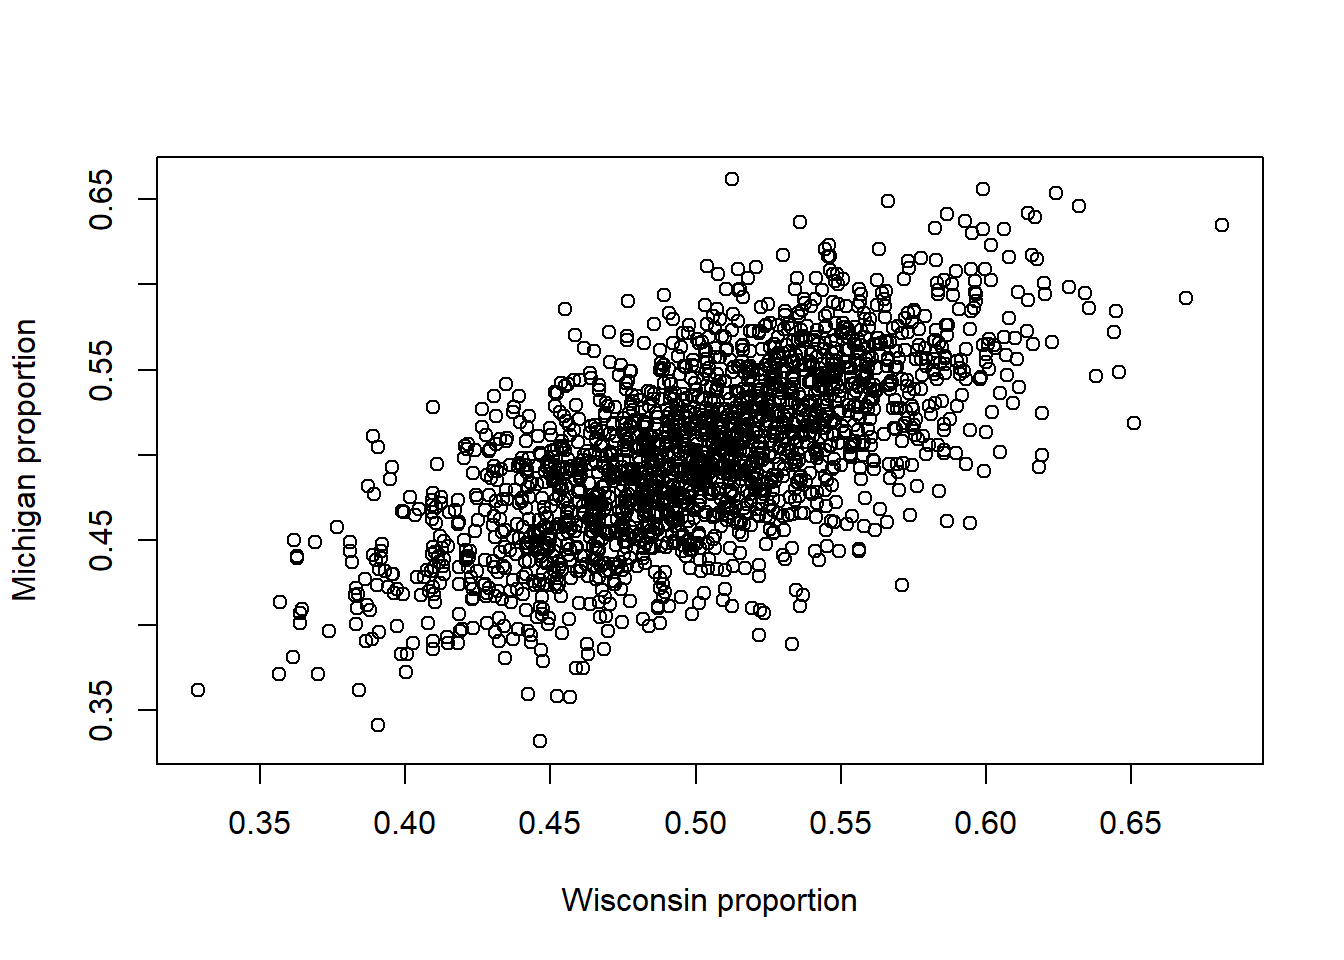
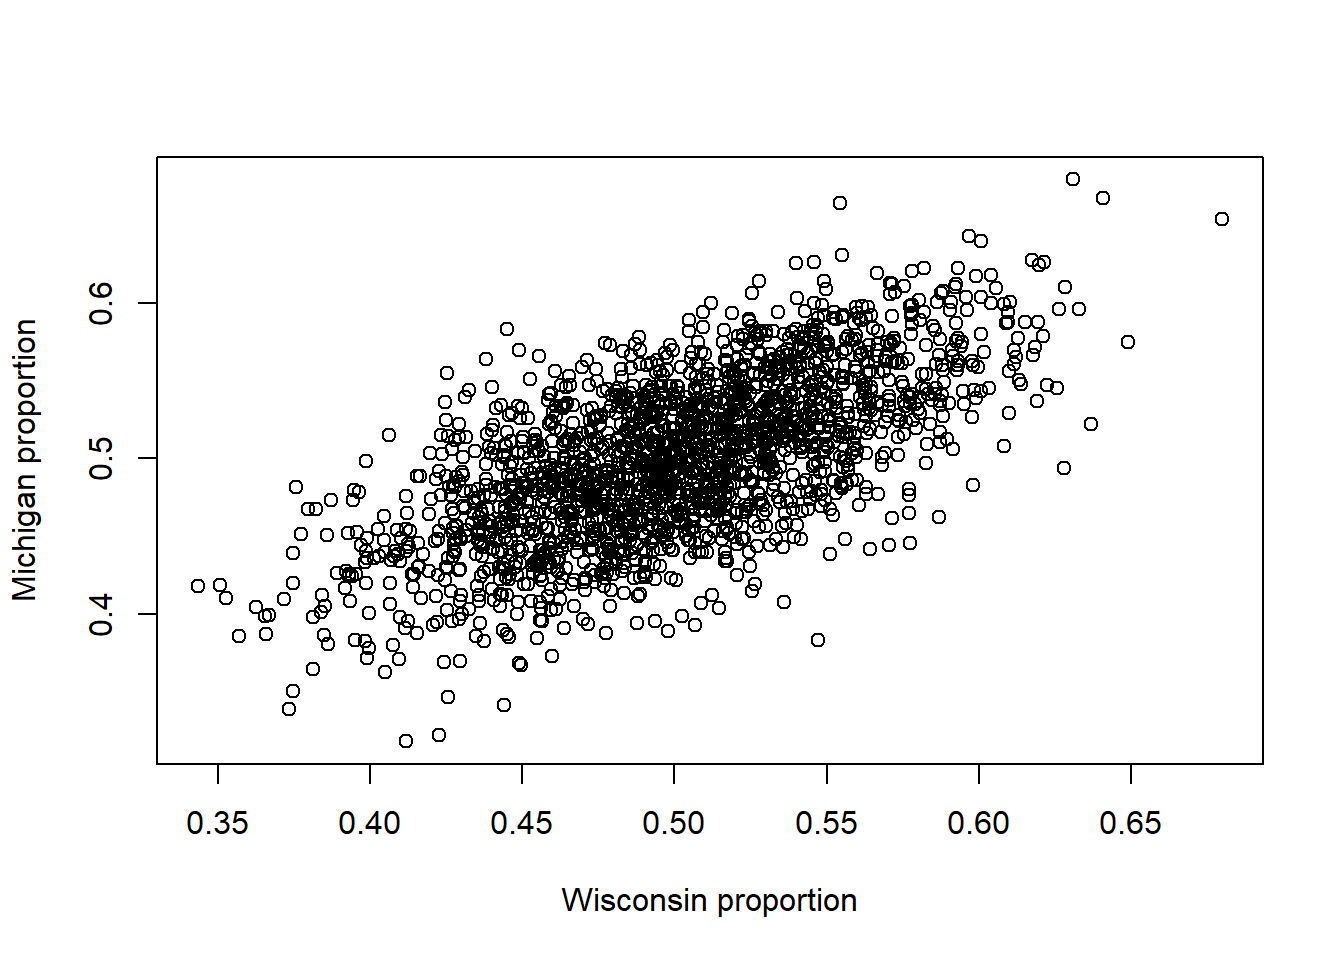
cov fixes

diff --git a/docs/cov.html b/docs/cov.html
@@ -446,14 +446,14 @@ So if $X$ and $Y$ are independent, $\operatorname{Cov}(X,Y) = 0$. -->
 <span id="cb1-3"><a href="#cb1-3" aria-hidden="true" tabindex="-1"></a></span>
 <span id="cb1-4"><a href="#cb1-4" aria-hidden="true" tabindex="-1"></a><span class="fu">cov</span>(x,y)</span></code><button title="Copy to Clipboard" class="code-copy-button"><i class="bi"></i></button></pre></div>
 <div class="cell-output cell-output-stdout">
-<pre><code>[1] -0.002047785</code></pre>
+<pre><code>[1] 0.0003628265</code></pre>
 </div>
 </div>
 <p>The covariance of this sample of 10,000 observations of <span class="math inline">\(X\)</span> and <span class="math inline">\(Y\)</span> is very close to 0 (probably a little below or a little above due to randomness). The sample correlation is</p>
 <div class="cell">
 <div class="sourceCode cell-code" id="cb3"><pre class="sourceCode r code-with-copy"><code class="sourceCode r"><span id="cb3-1"><a href="#cb3-1" aria-hidden="true" tabindex="-1"></a><span class="fu">cor</span>(x,y)</span></code><button title="Copy to Clipboard" class="code-copy-button"><i class="bi"></i></button></pre></div>
 <div class="cell-output cell-output-stdout">
-<pre><code>[1] -0.01185526</code></pre>
+<pre><code>[1] 0.002149034</code></pre>
 </div>
 </div>
 <p>Again - this is a number that is very close to zero.</p>
@@ -490,7 +490,7 @@ X_2 \sim \operatorname{Normal}(2,2).
 <span id="cb5-9"><a href="#cb5-9" aria-hidden="true" tabindex="-1"></a><span class="co"># v1 should be close to 1=Var X_1, v2 close to 2=Var X_2.</span></span>
 <span id="cb5-10"><a href="#cb5-10" aria-hidden="true" tabindex="-1"></a><span class="fu">c</span>( v1, v2 )</span></code><button title="Copy to Clipboard" class="code-copy-button"><i class="bi"></i></button></pre></div>
 <div class="cell-output cell-output-stdout">
-<pre><code>[1] 0.9996044 1.9852615</code></pre>
+<pre><code>[1] 0.9964867 2.0028233</code></pre>
 </div>
 </div>
 <p>And let’s check that these two independent variables have covariance (approximately) zero.</p>
@@ -500,7 +500,7 @@ X_2 \sim \operatorname{Normal}(2,2).
 <span id="cb7-3"><a href="#cb7-3" aria-hidden="true" tabindex="-1"></a><span class="co"># See ?cor for details.</span></span>
 <span id="cb7-4"><a href="#cb7-4" aria-hidden="true" tabindex="-1"></a><span class="fu">cor</span>( X1, X2 );</span></code><button title="Copy to Clipboard" class="code-copy-button"><i class="bi"></i></button></pre></div>
 <div class="cell-output cell-output-stdout">
-<pre><code>[1] -0.001097793</code></pre>
+<pre><code>[1] 0.006530369</code></pre>
 </div>
 </div>
 <p>Again, those <em>sample-based</em> quantities will never be precisely equal to 1, 2, and 0, but they will be very close!</p>
@@ -513,7 +513,7 @@ X_2 \sim \operatorname{Normal}(2,2).
 <div class="cell">
 <div class="sourceCode cell-code" id="cb9"><pre class="sourceCode r code-with-copy"><code class="sourceCode r"><span id="cb9-1"><a href="#cb9-1" aria-hidden="true" tabindex="-1"></a><span class="fu">var</span>(X1 <span class="sc">+</span> X2)</span></code><button title="Copy to Clipboard" class="code-copy-button"><i class="bi"></i></button></pre></div>
 <div class="cell-output cell-output-stdout">
-<pre><code>[1] 2.981773</code></pre>
+<pre><code>[1] 3.017761</code></pre>
 </div>
 </div>
 <p>As we predicted!</p>
@@ -542,12 +542,9 @@ X_2 \sim \operatorname{Normal}(2,2).
 <p>So this will generate two normal random variables, both having mean <span class="math inline">\(0.5\)</span>, and variance <span class="math inline">\(0.05^2\)</span>, but these two normals will be correlated, with covariance <span class="math inline">\(0.04^2\)</span>.</p>
 <p>Let’s have a look:</p>
 <div class="cell">
-<div class="sourceCode cell-code" id="cb13"><pre class="sourceCode r code-with-copy"><code class="sourceCode r"><span id="cb13-1"><a href="#cb13-1" aria-hidden="true" tabindex="-1"></a><span class="fu">library</span>(MASS); <span class="co"># This library includes a multivariate normal</span></span></code><button title="Copy to Clipboard" class="code-copy-button"><i class="bi"></i></button></pre></div>
-<div class="cell-output cell-output-stderr">
-<pre><code>Warning: package 'MASS' was built under R version 4.2.3</code></pre>
-</div>
-<div class="sourceCode cell-code" id="cb15"><pre class="sourceCode r code-with-copy"><code class="sourceCode r"><span id="cb15-1"><a href="#cb15-1" aria-hidden="true" tabindex="-1"></a>WpMp <span class="ot">=</span> <span class="fu">mvrnorm</span>(<span class="at">n=</span><span class="dv">2000</span>, <span class="at">mu=</span>mu, <span class="at">Sigma=</span>CovMx); <span class="co">#mvrnorm is the multivariate version of rnorm.</span></span>
-<span id="cb15-2"><a href="#cb15-2" aria-hidden="true" tabindex="-1"></a><span class="fu">plot</span>(WpMp, <span class="at">xlab =</span> <span class="st">"Wisconsin proportion"</span>, <span class="at">ylab =</span> <span class="st">"Michigan proportion"</span>);</span></code><button title="Copy to Clipboard" class="code-copy-button"><i class="bi"></i></button></pre></div>
+<div class="sourceCode cell-code" id="cb13"><pre class="sourceCode r code-with-copy"><code class="sourceCode r"><span id="cb13-1"><a href="#cb13-1" aria-hidden="true" tabindex="-1"></a><span class="fu">library</span>(MASS); <span class="co"># This library includes a multivariate normal</span></span>
+<span id="cb13-2"><a href="#cb13-2" aria-hidden="true" tabindex="-1"></a>WpMp <span class="ot">=</span> <span class="fu">mvrnorm</span>(<span class="at">n=</span><span class="dv">2000</span>, <span class="at">mu=</span>mu, <span class="at">Sigma=</span>CovMx); <span class="co">#mvrnorm is the multivariate version of rnorm.</span></span>
+<span id="cb13-3"><a href="#cb13-3" aria-hidden="true" tabindex="-1"></a><span class="fu">plot</span>(WpMp, <span class="at">xlab =</span> <span class="st">"Wisconsin proportion"</span>, <span class="at">ylab =</span> <span class="st">"Michigan proportion"</span>);</span></code><button title="Copy to Clipboard" class="code-copy-button"><i class="bi"></i></button></pre></div>
 <div class="cell-output-display">
 <p><img src="cov_files/figure-html/unnamed-chunk-8-1.png" class="img-fluid" width="672"></p>
 </div>
@@ -555,14 +552,14 @@ X_2 \sim \operatorname{Normal}(2,2).
 <p>It’s clear that the Wisconsin and Michigan voter shares are correlated– we can see it in the plot!</p>
 <p>But just to be sure:</p>
 <div class="cell">
-<div class="sourceCode cell-code" id="cb16"><pre class="sourceCode r code-with-copy"><code class="sourceCode r"><span id="cb16-1"><a href="#cb16-1" aria-hidden="true" tabindex="-1"></a><span class="co"># WpMp is an array with two columns and 500 rows.</span></span>
-<span id="cb16-2"><a href="#cb16-2" aria-hidden="true" tabindex="-1"></a><span class="co"># If we call cov on it directly, we get something shaped</span></span>
-<span id="cb16-3"><a href="#cb16-3" aria-hidden="true" tabindex="-1"></a><span class="co"># like our covariance matrix.</span></span>
-<span id="cb16-4"><a href="#cb16-4" aria-hidden="true" tabindex="-1"></a><span class="fu">cov</span>(WpMp )</span></code><button title="Copy to Clipboard" class="code-copy-button"><i class="bi"></i></button></pre></div>
+<div class="sourceCode cell-code" id="cb14"><pre class="sourceCode r code-with-copy"><code class="sourceCode r"><span id="cb14-1"><a href="#cb14-1" aria-hidden="true" tabindex="-1"></a><span class="co"># WpMp is an array with two columns and 500 rows.</span></span>
+<span id="cb14-2"><a href="#cb14-2" aria-hidden="true" tabindex="-1"></a><span class="co"># If we call cov on it directly, we get something shaped</span></span>
+<span id="cb14-3"><a href="#cb14-3" aria-hidden="true" tabindex="-1"></a><span class="co"># like our covariance matrix.</span></span>
+<span id="cb14-4"><a href="#cb14-4" aria-hidden="true" tabindex="-1"></a><span class="fu">cov</span>(WpMp )</span></code><button title="Copy to Clipboard" class="code-copy-button"><i class="bi"></i></button></pre></div>
 <div class="cell-output cell-output-stdout">
 <pre><code>            [,1]        [,2]
-[1,] 0.002535026 0.001692518
-[2,] 0.001692518 0.002614663</code></pre>
+[1,] 0.002434066 0.001654258
+[2,] 0.001654258 0.002638478</code></pre>
 </div>
 </div>
 <p>The diagonal entries are the (sample) variances computed along the columns. The off-diagonal entries (note that they are both the same) tell us the (sample) covariance. Unsurprisingly, the off-diagonal is close to the true covariance <span class="math inline">\(0.0016\)</span>.</p>
@@ -615,7 +612,7 @@ X_i \overset{\text{iid}}{\sim} \text{Uniform}(0,1), \text{ for } i=1,\ldots, n
 \]</span> Note that if <span class="math inline">\(\Pr[B] = 0\)</span>, then the ratio on the right-hand side is not defined, hence why we demanded that <span class="math inline">\(\Pr[B] &gt; 0\)</span>. Later in your career, you’ll see that we can actually define conditional probability in a sensible way even if <span class="math inline">\(\Pr[B] = 0\)</span>, but that’s a matter for a later class.</p>
 <div class="quarto-figure quarto-figure-center">
 <figure class="figure">
-<p><img src="./venn.png" class="img-fluid figure-img"></p>
+<p><img src="./images/venn.png" class="img-fluid figure-img"></p>
 <figcaption class="figure-caption">Venn diagram illustrating conditional probability</figcaption>
 </figure>
 </div>
